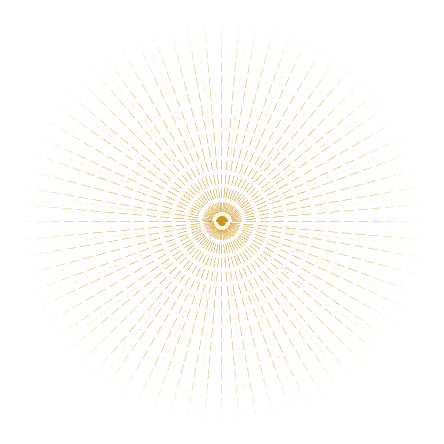
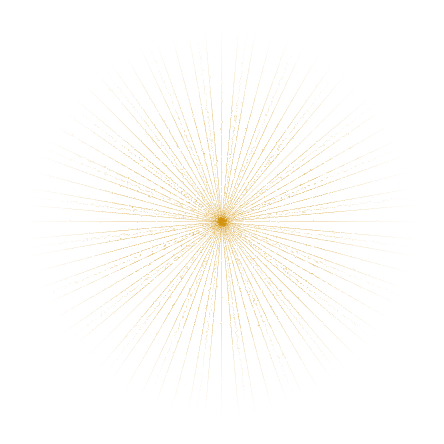
Swap Drakar rays asset and widen breath opacity range.
Use the new stippled rays PNG with its original soft alpha, and dim the connected ray layer more clearly while breathing.

diff --git a/apps/client/lib/shared/widgets/drakar_medallion_button.dart b/apps/client/lib/shared/widgets/drakar_medallion_button.dart
@@ -130,7 +130,8 @@ class _DrakarMedallionButtonState extends State<DrakarMedallionButton>
                       height: raysSize,
                       child: IgnorePointer(
                         child: Opacity(
-                          opacity: connected ? (0.72 + 0.28 * breath) : 0.0,
+                          // Breath: visibly dimmer ↔ brighter (was 0.72–1.0, too flat).
+                          opacity: connected ? (0.45 + 0.55 * breath) : 0.0,
                           child: Transform.scale(
                             scale: connected ? (1.0 + 0.04 * breath) : 1.0,
                             child: Image.asset(
